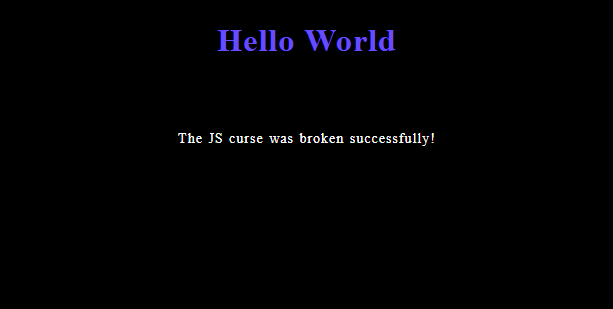
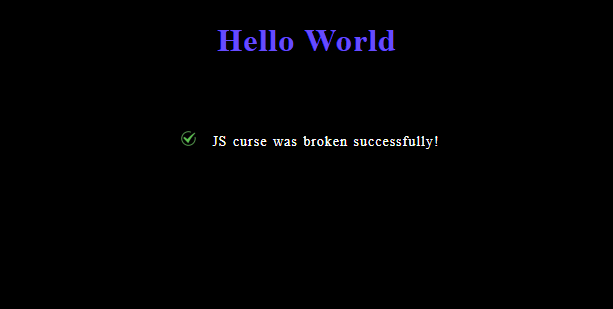
code added

Changed region(s): [[0.279, 0.4078, 0.7129, 0.4951]]

diff --git a/index.html b/index.html
@@ -21,6 +21,7 @@
       }
 
       h2 {
+        margin-left: 1vh;
         font-size: 14px;
         font-weight: lighter;
         color: white;
@@ -28,11 +29,17 @@
     </style>
   </head>
   <body>
-    <!-- content -->
     <div><h1>Hello World</h1></div>
-    <div><h2>The JS curse was broken successfully!</h2></div>
+    <div>
+      <h2>
+        <img src="/img/checked_icon.png" /> &nbsp JS curse was broken
+        successfully!
+      </h2>
+    </div>
   </body>
   <script>
     window.alert('Press the OK button to broke the hello world JS curse!')
+    window.confirm('Are you a scholar person?')
+    window.prompt('Leave a suggestion?')
   </script>
 </html>

diff --git a/README.md b/README.md
@@ -1,2 +1,38 @@
-<img width=1200 src="img\breacking_the_JS_hello_world_curse.png">
-<img width=1200 src="img\js_curse_breacked.png">
+```
+  <script>
+    window.alert ('Press the OK button to broke the hello world JS curse!')
+  </script> 
+``` 
+<img width=650 src="img\breacking_the_JS_hello_world_curse.png">
+<br><br><br>
+
+```
+  <body>
+    <div><h1>Hello World</h1></div>
+    <div>
+      <h2>
+        <img src="/img/checked_icon.png" /> &nbsp JS curse was broken
+        successfully!
+      </h2>
+    </div>
+  </body>
+``` 
+
+<img width=650 src="img\js_curse_breacked.png">
+<br><br><br>
+
+```
+  window.confirm('Are you a scholar person?')
+``` 
+
+<img width=650 src="img\checking_efforces.png">
+<br><br><br>
+
+```
+  <script>
+    window.prompt('Leave a suggestion?')
+  </script> 
+``` 
+<img width=650 src="img\opening_to_a_suggestion.png">
+
+
